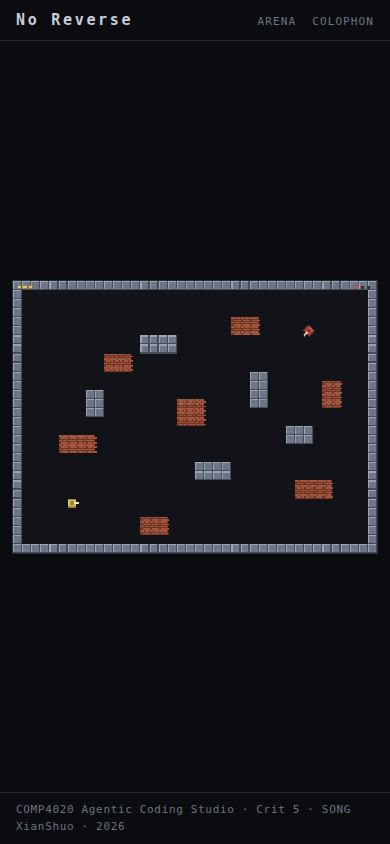
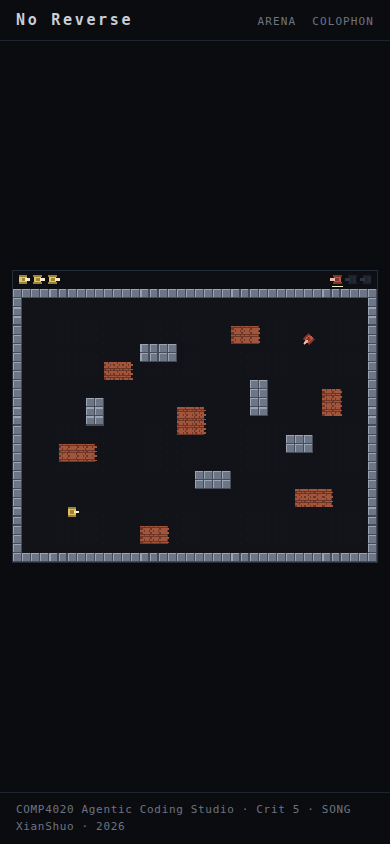
lives and waves get a band of their own — from playing, not reading

diff --git a/src/render.ts b/src/render.ts
@@ -1,6 +1,6 @@
 // Everything that touches a canvas lives here.
 
-import { COLS, H, ROWS, TILE, W } from "./config.ts";
+import { COLS, H, HUD_H, LIVES, ROWS, TILE, W } from "./config.ts";
 import { at, BRICK, EMPTY, STEEL, type Grid } from "./map.ts";
 import type { Tank } from "./sim.ts";
 
@@ -98,15 +98,51 @@ export function drawBullet(g: CanvasRenderingContext2D, x: number, y: number, mi
   }
 }
 
-/** Lives left, as pips: state, not a caption. */
-export function drawLives(g: CanvasRenderingContext2D, n: number): void {
-  for (let i = 0; i < n; i++) {
-    const x = 8 + i * 10;
-    g.fillStyle = PLAYER.hull;
-    g.fillRect(x, 8, 6, 5);
-    g.fillStyle = PLAYER.tread;
-    g.fillRect(x, 7, 6, 1);
-    g.fillRect(x, 13, 6, 1);
+const HUD_BG = "#0d0f14";
+const HUD_RULE = "#232936";
+const SPENT = { hull: "#222834", tread: "#1b202a", barrel: "#2b3240" };
+const BEATEN = { hull: "#4a2b23", tread: "#341e18", barrel: "#573129" };
+const PENDING = { hull: "#242a35", tread: "#1c212b", barrel: "#2d3441" };
+
+type Skin = { hull: string; tread: string; barrel: string };
+
+/** One tank at icon scale, facing `dir`. Same shape as the thing it stands for. */
+function icon(g: CanvasRenderingContext2D, x: number, y: number, s: Skin, dir: number): void {
+  g.save();
+  g.translate(x, y);
+  g.scale(dir, 1);
+  g.fillStyle = s.tread;
+  g.fillRect(-8, -8, 15, 3);
+  g.fillRect(-8, 5, 15, 3);
+  g.fillStyle = s.hull;
+  g.fillRect(-7, -5, 13, 10);
+  g.fillStyle = s.barrel;
+  g.fillRect(2, -2, 10, 4);
+  g.fillStyle = s.tread;
+  g.fillRect(-3, -3, 6, 6);
+  g.restore();
+}
+
+/**
+ * The band. Left: one tank per life, spent ones left as empty silhouettes so
+ * three-of-three is readable without counting. Right: one enemy per wave,
+ * beaten / here / still coming, with a bar under the one you are in.
+ */
+export function drawHud(g: CanvasRenderingContext2D, lives: number, wave: number, waves: number): void {
+  g.fillStyle = HUD_BG;
+  g.fillRect(0, 0, W, HUD_H);
+  g.fillStyle = HUD_RULE;
+  g.fillRect(0, HUD_H - 1, W, 1);
+
+  for (let i = 0; i < LIVES; i++) icon(g, 18 + i * 26, 15, i < lives ? PLAYER : SPENT, 1);
+
+  for (let i = 0; i < waves; i++) {
+    const x = W - 18 - (waves - 1 - i) * 26;
+    icon(g, x, 15, i < wave - 1 ? BEATEN : i === wave - 1 ? ENEMY : PENDING, -1);
+    if (i === wave - 1) {
+      g.fillStyle = PLAYER.barrel;
+      g.fillRect(x - 10, HUD_H - 6, 20, 2);
+    }
   }
 }
 
@@ -121,15 +157,6 @@ export function drawBoom(g: CanvasRenderingContext2D, x: number, y: number, t: n
   g.arc(Math.round(x), Math.round(y), r, 0, Math.PI * 2);
   g.stroke();
   g.globalAlpha = 1;
-}
-
-/** Which wave, as pips. Filled ones are behind you. */
-export function drawWave(g: CanvasRenderingContext2D, wave: number, total: number): void {
-  for (let i = 0; i < total; i++) {
-    const x = W - 8 - (total - i) * 10;
-    g.fillStyle = i < wave ? ENEMY.hull : "#2a303c";
-    g.fillRect(x, 8, 6, 6);
-  }
 }
 
 /** The two endings. Words are allowed here; they are not telling you anything. */

diff --git a/main.ts b/main.ts
@@ -1,19 +1,18 @@
-import { H, W, WAVES } from "./src/config.ts";
+import { CANVAS_H, HUD_H, W, WAVES } from "./src/config.ts";
 import { newGame, press, step } from "./src/game.ts";
 import {
   drawBoom,
   drawBullet,
   drawCursor,
   drawEnding,
-  drawLives,
+  drawHud,
   drawTank,
-  drawWave,
   paintMap,
 } from "./src/render.ts";
 
 const canvas = document.querySelector<HTMLCanvasElement>("#arena")!;
 canvas.width = W;
-canvas.height = H;
+canvas.height = CANVAS_H;
 const g = canvas.getContext("2d")!;
 g.imageSmoothingEnabled = false;
 
@@ -22,7 +21,10 @@ let mapLayer = paintMap(world.arena.grid);
 
 function toWorld(e: PointerEvent): { x: number; y: number } {
   const r = canvas.getBoundingClientRect();
-  return { x: ((e.clientX - r.left) / r.width) * W, y: ((e.clientY - r.top) / r.height) * H };
+  return {
+    x: ((e.clientX - r.left) / r.width) * W,
+    y: ((e.clientY - r.top) / r.height) * CANVAS_H - HUD_H,
+  };
 }
 
 let aiming = false;
@@ -50,17 +52,19 @@ function frame(now: number): void {
     mapLayer = paintMap(world.arena.grid);
     world.mapDirty = false;
   }
+  drawHud(g, world.lives, world.wave, WAVES.length);
+  g.save();
+  g.translate(0, HUD_H);
   g.drawImage(mapLayer, 0, 0);
   for (const e of world.enemies) if (e.alive) drawTank(g, e);
   if (world.player.alive) drawTank(g, world.player);
   for (const b of world.bullets) drawBullet(g, b.x, b.y, b.owner.player);
   for (const b of world.booms) drawBoom(g, b.x, b.y, b.t, b.player);
-  drawLives(g, world.lives);
-  drawWave(g, world.wave, WAVES.length);
   if (world.phase === "WON" || world.phase === "LOST") {
     drawEnding(g, world.phase === "WON", world.clock);
   }
   if (aiming) drawCursor(g, world.cursor.x, world.cursor.y);
+  g.restore();
 
   requestAnimationFrame(frame);
 }

diff --git a/src/config.ts b/src/config.ts
@@ -6,6 +6,12 @@ export const ROWS = 30;
 export const W = COLS * TILE; // 640
 export const H = ROWS * TILE; // 480
 
+// The HUD had been painted over the top row of steel: 6px tall, on a grey wall,
+// the same grey. It gets its own band above the arena instead, so the canvas is
+// taller than the playfield and the world is drawn offset by HUD_H.
+export const HUD_H = 32;
+export const CANVAS_H = H + HUD_H; // 512
+
 // The tank never stops and never reverses. Speed is constant; the only thing
 // the player controls is how fast it is allowed to turn.
 export const SPEED = 60; // px/s

diff --git a/styles.css b/styles.css
@@ -67,8 +67,8 @@ main {
 
 canvas {
   display: block;
-  width: min(100%, 1280px, calc((100dvh - 8rem) * 4 / 3));
-  aspect-ratio: 4 / 3;
+  width: min(100%, 1280px, calc((100dvh - 8rem) * 640 / 512));
+  aspect-ratio: 640 / 512;
   height: auto;
   background: var(--floor);
   border: 1px solid #262d3a;
